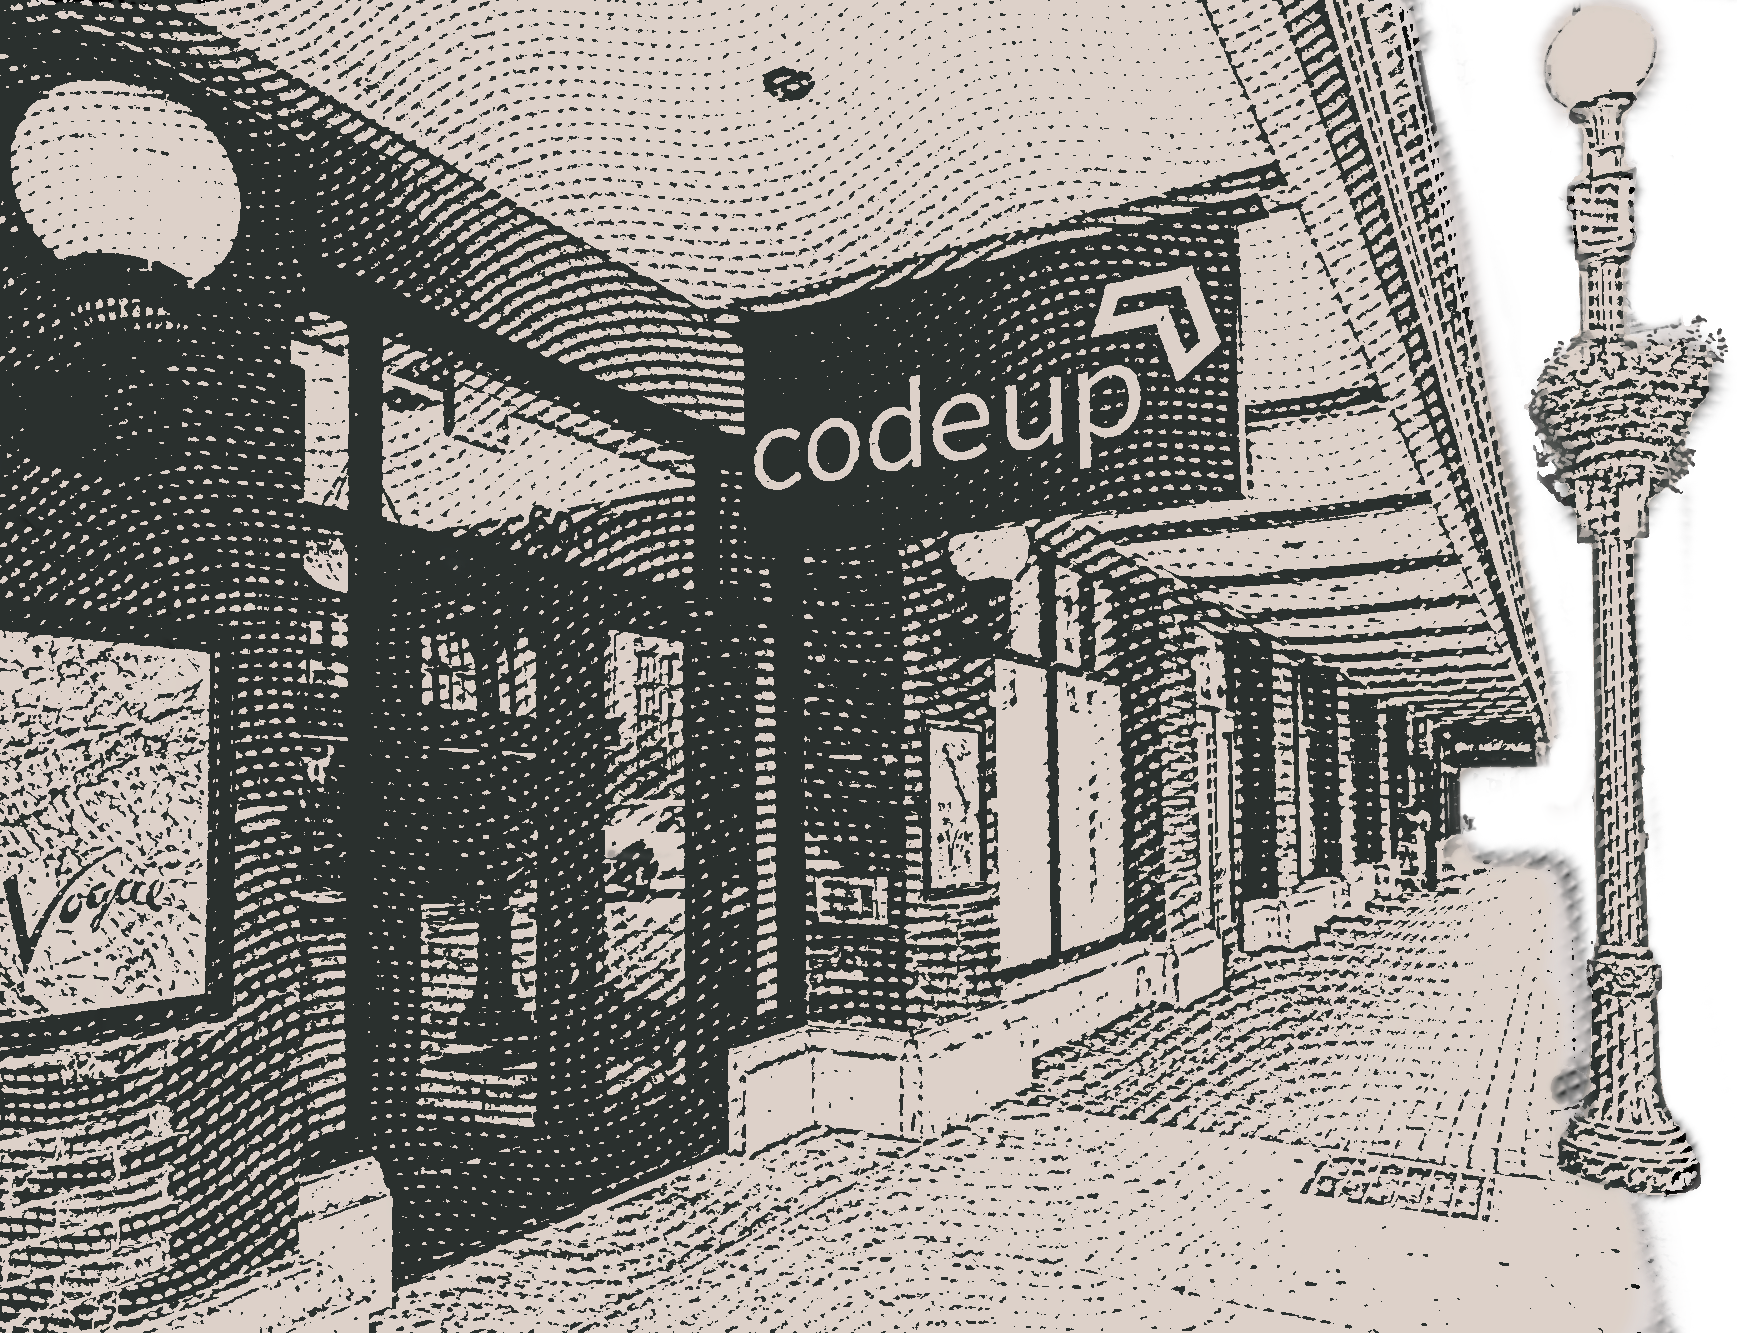
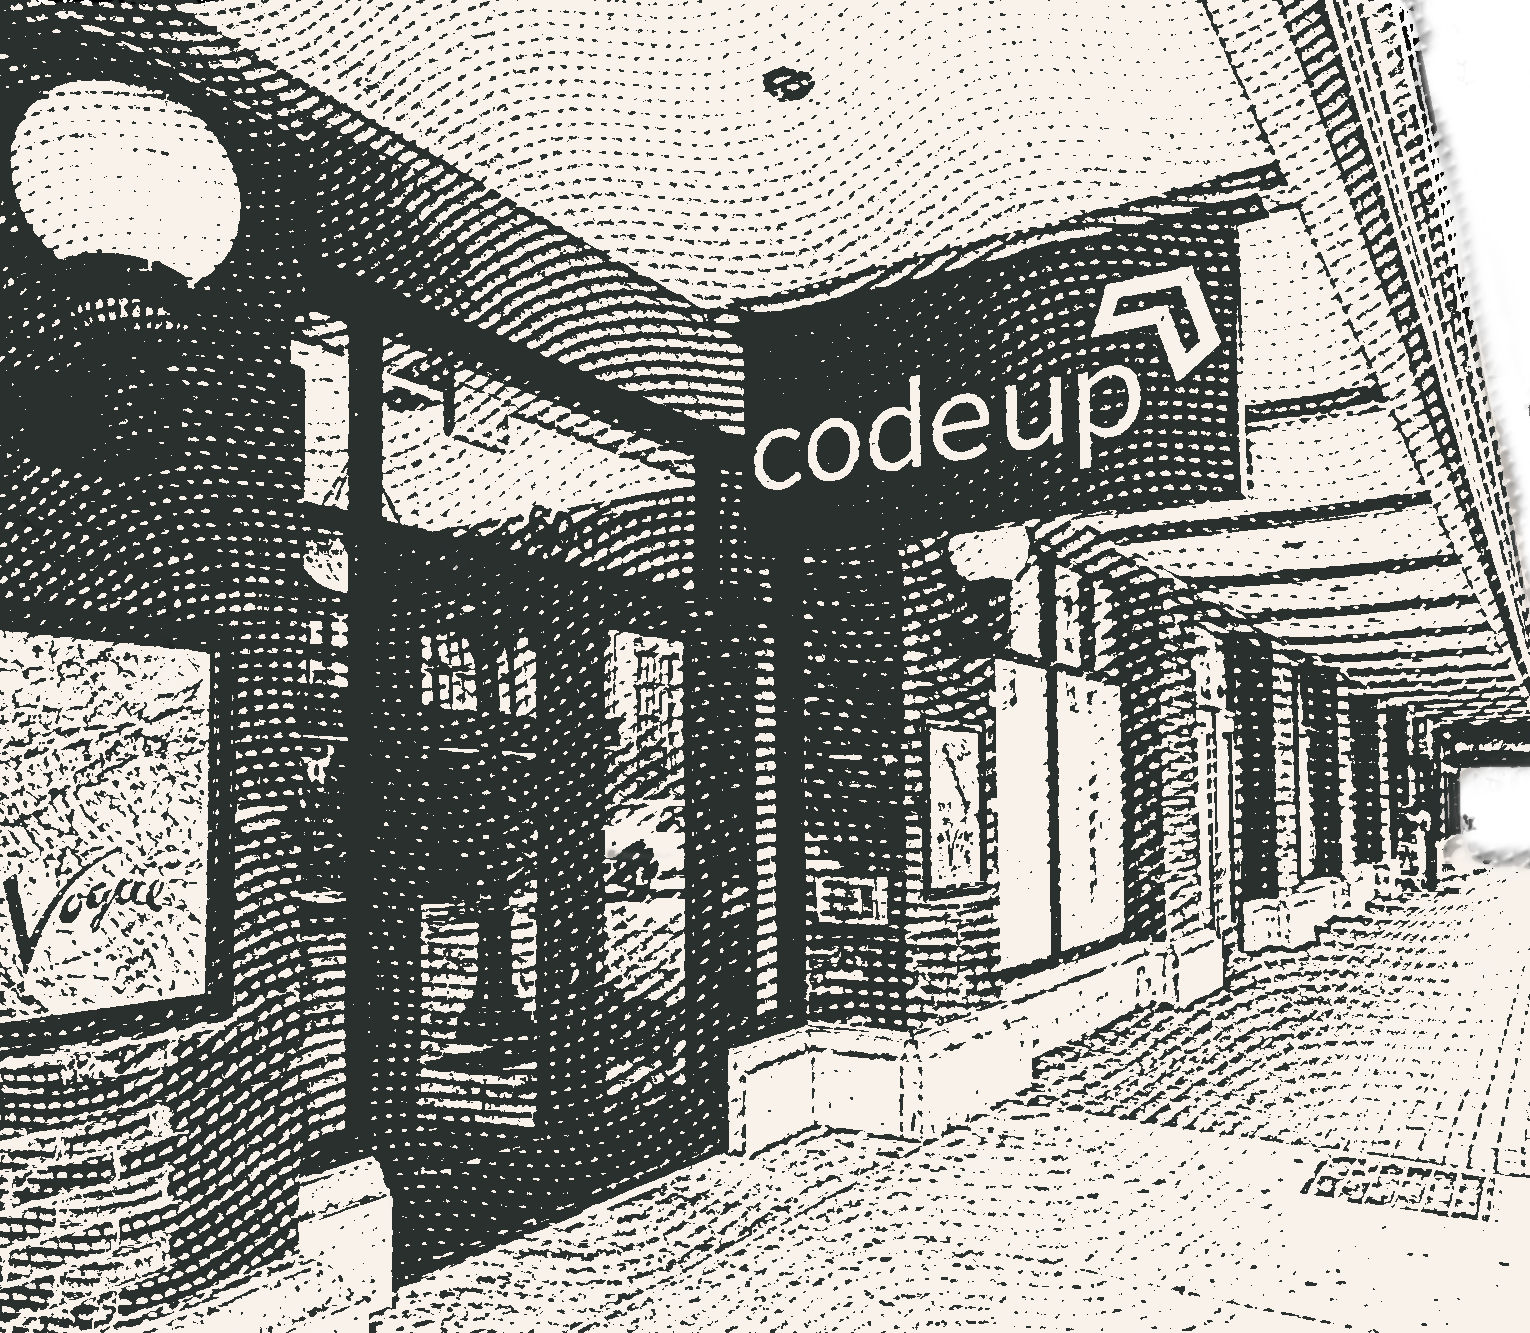
Profile page campous picture finished, except minor changes

diff --git a/css/NAA-Professional-Profile.css b/css/NAA-Professional-Profile.css
@@ -352,16 +352,16 @@ a {
 }
 
 .campus {
-    -webkit-filter: opacity(0.8);
-    filter: opacity(0.8);
+    /*-webkit-filter: opacity(0.95);*/
+    /*filter: opacity(0.95);*/
     mix-blend-mode: multiply;
     width: 100%;
 }
 
 .media {
-    /*-webkit-filter: sepia(80%) contrast(1) opacity(0.8);*/
-    /*filter: sepia(80%) grayscale(1) contrast(1) opacity(0.8);*/
-    /*mix-blend-mode: multiply;*/
+    -webkit-filter: sepia(80%) contrast(1) opacity(0.8);
+    filter: sepia(80%) grayscale(1) contrast(1) opacity(0.8);
+    mix-blend-mode: multiply;
     width: 100%;
 }
 
